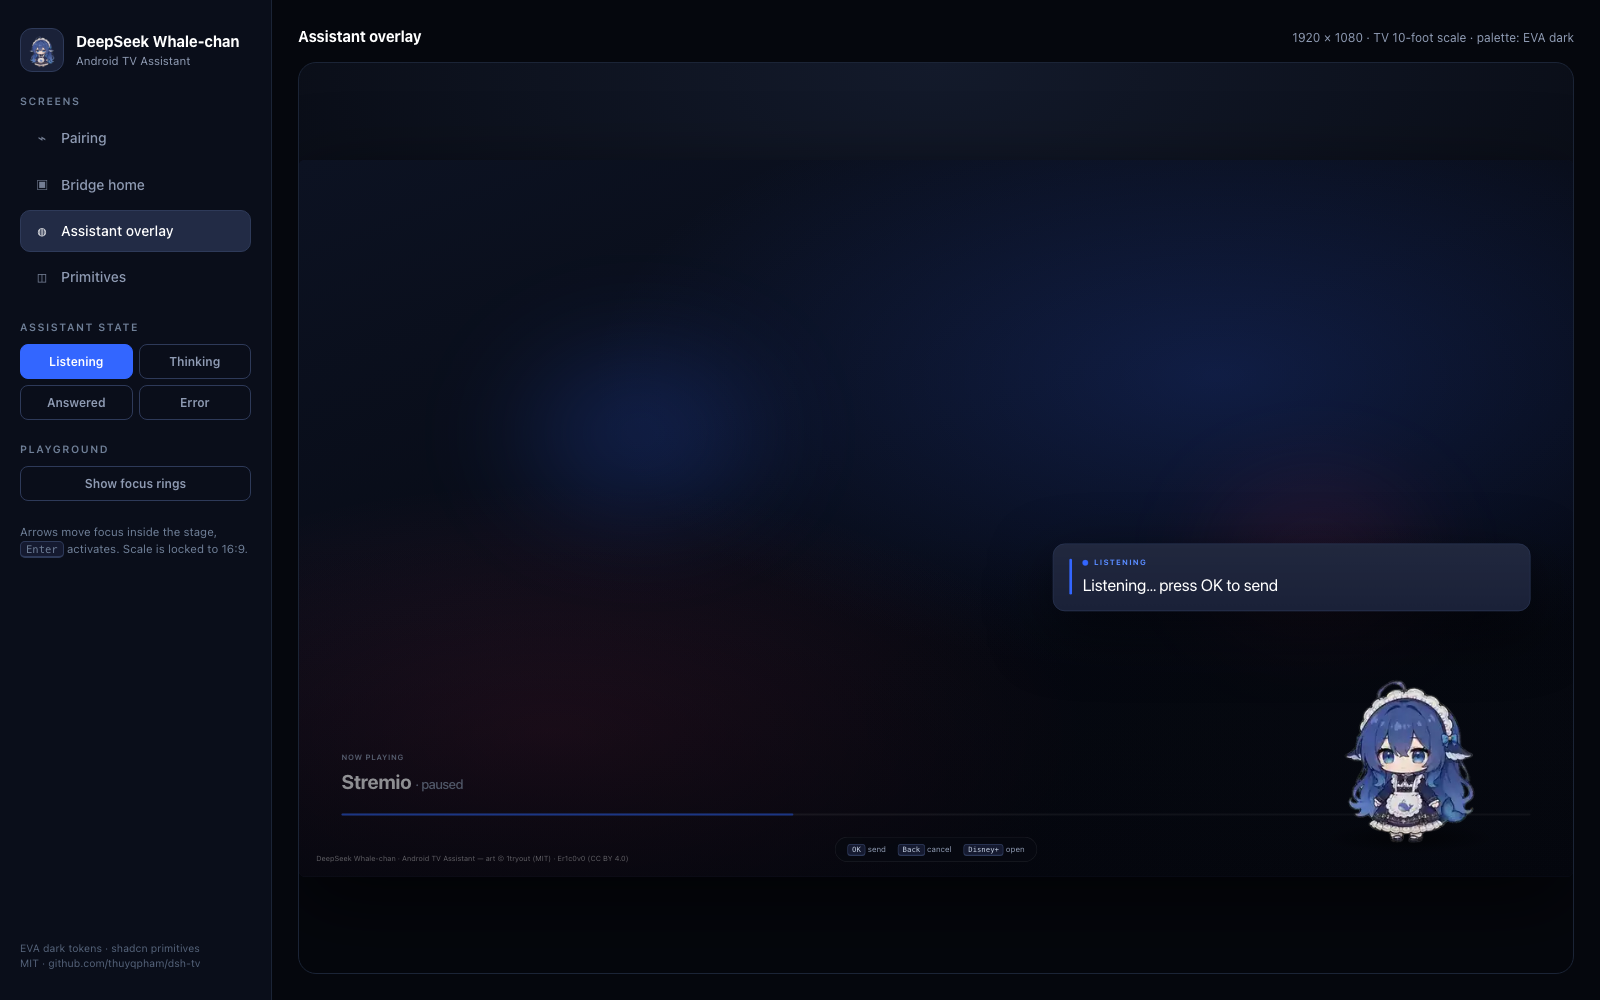
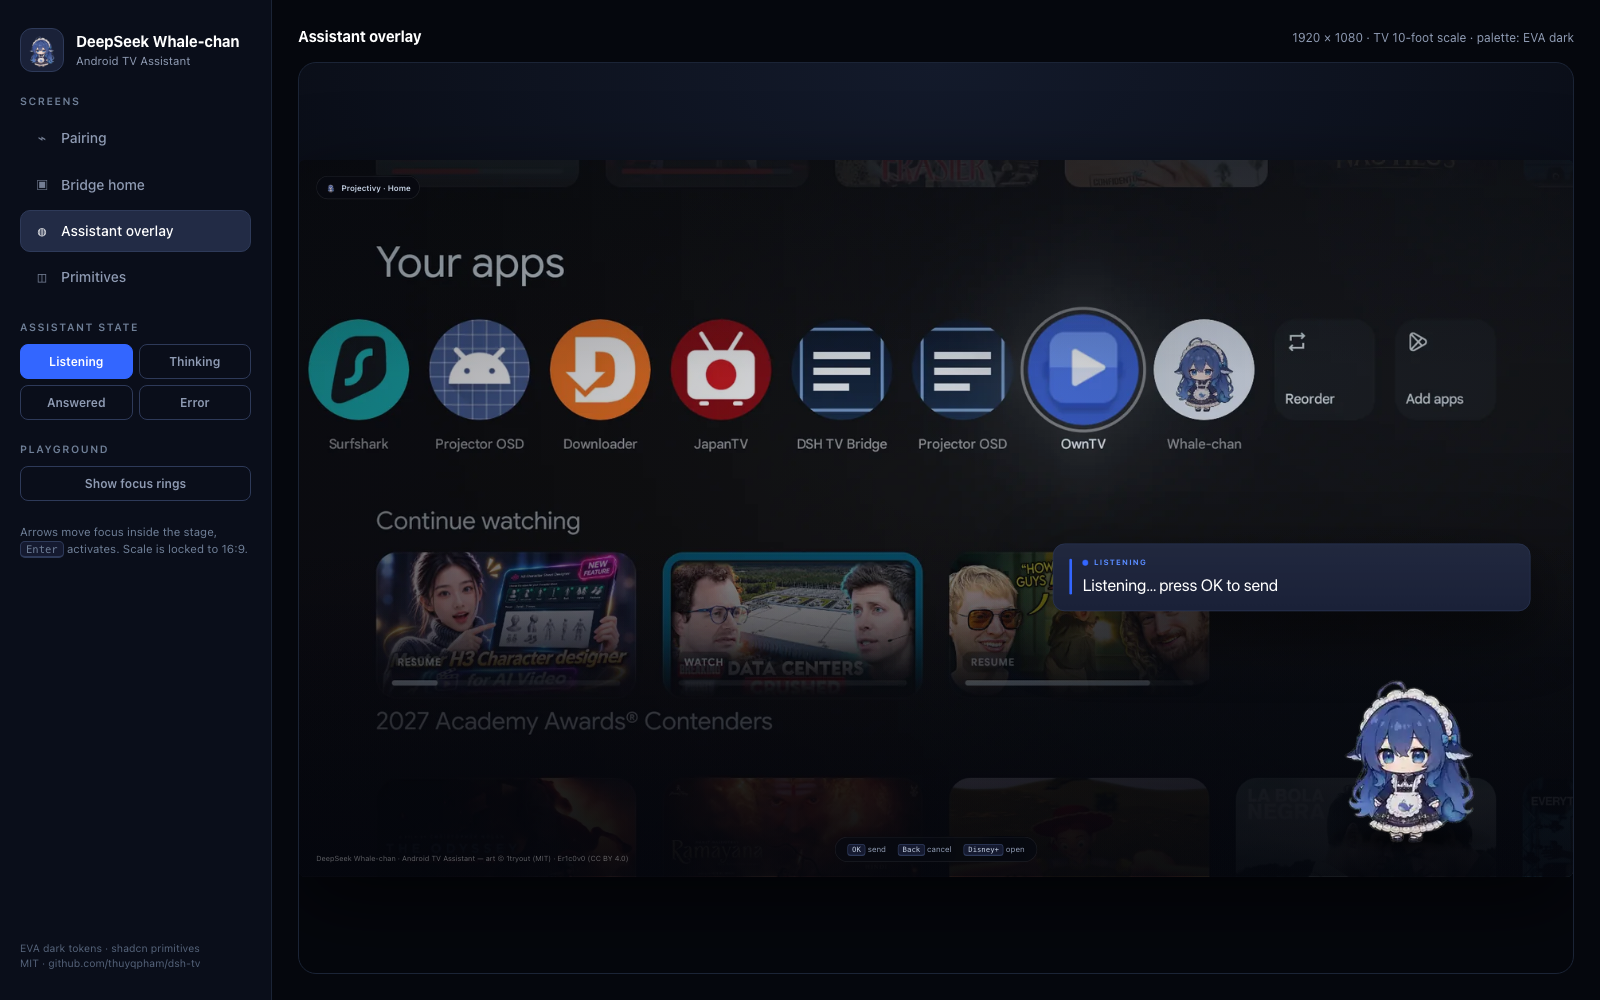
design: big onn. 4K Plus TV behind the laptop, real Projectivy launcher grab, whale assistant overlaid on the TV

diff --git a/docs/ui-mockup.html b/docs/ui-mockup.html
@@ -221,6 +221,12 @@
   .player .bar i { display: block; width: 38%; height: 100%; border-radius: 2px; background: var(--primary); }
   
   .assistant { position: absolute; inset: 0; }
+  .player .shot { position: absolute; inset: 0; width: 100%; height: 100%; object-fit: cover; opacity: .9; }
+  .player .scrim-strong { position: absolute; inset: 0; background: radial-gradient(90% 90% at 50% 45%, transparent 0%, rgba(4,6,13,.35) 70%, rgba(4,6,13,.8) 100%), linear-gradient(180deg, rgba(4,6,13,.25), transparent 30%, transparent 60%, rgba(4,6,13,.72)); }
+  .assistant .app-chip { position: absolute; left: 26px; top: 24px; display: inline-flex; align-items: center; gap: 8px;
+    padding: 8px 13px; border-radius: 999px; background: rgba(6,9,16,.6); border: 1px solid rgba(255,255,255,.10);
+    font-size: 12px; font-weight: 600; color: #C6D2E4; backdrop-filter: blur(8px); }
+  .assistant .app-chip img { width: 16px; height: 16px; border-radius: 4px; }
   .assistant .scrim { position: absolute; inset: 0; background:
       radial-gradient(58% 40% at 82% 78%, rgba(6,9,16,.55), transparent 70%),
       linear-gradient(180deg, transparent 52%, rgba(4,6,13,.62) 100%); pointer-events: none; }
@@ -309,86 +315,74 @@
     border-top-color: #C7D7FF; animation: spin 1s linear infinite; }
   @keyframes spin { to { transform: rotate(360deg); } }
 
-  /* laptop + TV scene */
-  .pair-visual { position: relative; height: 540px; align-self: center; }
-  .pair-visual .halo { position: absolute; inset: 6% 2% 8% 4%; background:
-      radial-gradient(60% 60% at 40% 42%, rgba(51,102,255,.20), transparent 70%),
-      radial-gradient(45% 45% at 76% 72%, rgba(0,224,150,.10), transparent 70%); filter: blur(10px); }
+  /* laptop in front + big TV behind */
+  .pair-visual { position: relative; height: 600px; align-self: center; }
+  .pair-visual .halo { position: absolute; inset: 2% 0 8% 4%; background:
+      radial-gradient(60% 60% at 62% 38%, rgba(51,102,255,.22), transparent 70%),
+      radial-gradient(45% 45% at 30% 76%, rgba(0,224,150,.10), transparent 70%); filter: blur(12px); }
   .scene { position: absolute; inset: 0; }
 
-  .laptop { position: absolute; left: -6px; top: 18px; width: 486px; }
-  .laptop .lid { border-radius: 16px 16px 4px 4px; padding: 9px; background: linear-gradient(180deg, #2A3350, #171D31);
-    border: 1px solid #3A4766; box-shadow: 0 30px 70px rgba(0,0,0,.55), inset 0 1px 0 rgba(255,255,255,.08); }
-  .laptop .lcd { position: relative; height: 282px; border-radius: 8px; overflow: hidden; background: #0B0F1F;
-    border: 1px solid #070A12; }
-  .laptop .base { height: 13px; width: 108%; margin-left: -4%; border-radius: 0 0 12px 12px;
-    background: linear-gradient(180deg, #4A556F, #2A3247 60%, #1B2132); box-shadow: 0 12px 24px rgba(0,0,0,.45); }
-  .laptop .notch { position: absolute; top: 9px; left: 50%; transform: translateX(-50%); width: 64px; height: 9px;
+  /* ---- TV (back) ---- */
+  .tv { position: absolute; right: -8px; top: 0; width: 792px; z-index: 1; }
+  .tv .panel { border-radius: 14px; padding: 11px 11px 0; background: linear-gradient(180deg, #121826, #070A12);
+    border: 1px solid #2A3450; box-shadow: 0 40px 100px rgba(0,0,0,.65), inset 0 1px 0 rgba(255,255,255,.06); }
+  .tv .lcd { position: relative; height: 424px; border-radius: 6px; overflow: hidden; background: #05070D; border: 1px solid #05070D; }
+  .tv .lcd .shot { position: absolute; inset: 0; width: 100%; height: 100%; object-fit: cover; opacity: .96; }
+  .tv .lcd .dim { position: absolute; inset: 0; background: linear-gradient(180deg, rgba(4,6,13,.10), transparent 30%, transparent 52%, rgba(4,6,13,.72)); }
+  .tv .chin { height: 36px; display: flex; align-items: center; justify-content: flex-end; gap: 9px; padding-right: 20px; }
+  .tv .chin .onn { font-size: 14px; font-weight: 800; letter-spacing: -.03em; color: #EAF0FA; }
+  .tv .chin .model { font-size: 9px; letter-spacing: .17em; text-transform: uppercase; color: #6F7F97; font-weight: 700; }
+  .tv .stand { width: 26%; height: 7px; margin: 0 auto; background: linear-gradient(180deg, #2A3350, #101625); border-radius: 0 0 8px 8px; }
+  .tv .foot-base { width: 48%; height: 3px; margin: 0 auto; background: #0A0E18; border-radius: 3px; }
+
+  /* whale-chan assistant overlaid on the real launcher */
+  .tv-assistant { position: absolute; right: 16px; bottom: 14px; left: 16px; height: 150px; pointer-events: none; }
+  .tv-assistant .tbubble { position: absolute; right: 118px; bottom: 78px; width: 342px; padding: 10px 13px 11px;
+    border-radius: 11px; background: rgba(12,17,29,.92); border: 1px solid rgba(89,139,255,.38);
+    box-shadow: 0 14px 34px rgba(0,0,0,.5); backdrop-filter: blur(6px); }
+  .tv-assistant .tbubble .eb { display: flex; align-items: center; gap: 6px; font-size: 6.5px; letter-spacing: .16em;
+    font-weight: 700; color: var(--primary-hover); text-transform: uppercase; }
+  .tv-assistant .tbubble .eb .dot { width: 5px; height: 5px; animation: pulse 1.6s ease-out infinite; }
+  .tv-assistant .tbubble .say { margin-top: 4px; font-size: 11px; line-height: 1.35; color: #EAF2FB; }
+  .tv-assistant .tpet { position: absolute; right: 6px; bottom: 0; width: 154px; filter: drop-shadow(0 14px 18px rgba(0,0,0,.6)); }
+  .tv-assistant .tshadow { position: absolute; right: 26px; bottom: 2px; width: 110px; height: 18px; border-radius: 50%;
+    background: radial-gradient(closest-side, rgba(0,0,0,.55), transparent); }
+  .tv .pill-brand { position: absolute; left: 16px; top: 14px; display: inline-flex; align-items: center; gap: 6px;
+    padding: 5px 9px; border-radius: 999px; background: rgba(6,9,16,.6); border: 1px solid rgba(255,255,255,.12);
+    color: #DCE7F7; font-size: 7px; font-weight: 700; letter-spacing: .05em; backdrop-filter: blur(6px); }
+  .tv .pill-brand img { width: 12px; height: 12px; border-radius: 3px; }
+
+  /* ---- laptop (front) ---- */
+  .laptop { position: absolute; left: -12px; bottom: -12px; width: 442px; z-index: 3; filter: drop-shadow(0 34px 50px rgba(0,0,0,.6)); }
+  .laptop .lid { border-radius: 15px 15px 4px 4px; padding: 8px; background: linear-gradient(180deg, #2A3350, #171D31);
+    border: 1px solid #3A4766; box-shadow: inset 0 1px 0 rgba(255,255,255,.08); }
+  .laptop .lcd { position: relative; height: 236px; border-radius: 7px; overflow: hidden; background: #0B0F1F; border: 1px solid #070A12; }
+  .laptop .base { height: 12px; width: 108%; margin-left: -4%; border-radius: 0 0 12px 12px;
+    background: linear-gradient(180deg, #4A556F, #2A3247 60%, #1B2132); }
+  .laptop .notch { position: absolute; top: 8px; left: 50%; transform: translateX(-50%); width: 56px; height: 8px;
     background: #070A12; border-radius: 0 0 6px 6px; z-index: 2; }
 
-  .dsh { position: absolute; inset: 0; display: flex; font-size: 8px; color: #A9B6C9; }
-  .dsh-rail { width: 34px; flex: 0 0 34px; background: #0E1322; border-right: 1px solid #1B2436; padding: 8px 6px; display: flex; flex-direction: column; gap: 6px; }
-  .dsh-rail i { display: block; width: 100%; height: 5px; border-radius: 2px; background: #232D45; }
-  .dsh-rail i.on { background: var(--primary); height: 14px; border-radius: 4px; }
-  .dsh-main { flex: 1; display: flex; flex-direction: column; padding: 10px 12px; gap: 8px; min-width: 0; }
+  .dsh { position: absolute; inset: 0; display: flex; font-size: 7.5px; color: #A9B6C9; }
+  .dsh-rail { width: 30px; flex: 0 0 30px; background: #0E1322; border-right: 1px solid #1B2436; padding: 7px 5px; display: flex; flex-direction: column; gap: 5px; }
+  .dsh-rail i { display: block; width: 100%; height: 4px; border-radius: 2px; background: #232D45; }
+  .dsh-rail i.on { background: var(--primary); height: 12px; border-radius: 4px; }
+  .dsh-main { flex: 1; display: flex; flex-direction: column; padding: 8px 10px; gap: 6px; min-width: 0; }
   .dsh-top { display: flex; align-items: center; justify-content: space-between; }
-  .dsh-top b { font-size: 8.5px; color: #E6EDF7; font-weight: 700; letter-spacing: .01em; }
-  .dsh-top span { font-size: 7px; color: #5C6A82; }
-  .dsh-card { background: #131B2C; border: 1px solid #22304A; border-radius: 6px; padding: 8px; display: flex; flex-direction: column; gap: 5px; }
-  .dsh-card .line { height: 4px; border-radius: 2px; background: #26334D; }
+  .dsh-top b { font-size: 7.5px; color: #E6EDF7; font-weight: 700; }
+  .dsh-top span { font-size: 6.5px; color: #5C6A82; }
+  .dsh-card { background: #131B2C; border: 1px solid #22304A; border-radius: 5px; padding: 7px; display: flex; flex-direction: column; gap: 4px; }
+  .dsh-card .line { height: 3.5px; border-radius: 2px; background: #26334D; }
   .dsh-card .line.short { width: 62%; }
-  .dsh-card .accent { height: 4px; width: 34%; border-radius: 2px; background: var(--primary); }
-  .dsh-pane { width: 158px; flex: 0 0 158px; background: #101728; border-left: 1px solid #1E2941; padding: 9px; display: flex; flex-direction: column; gap: 6px; }
-  .dsh-pane .ph { font-size: 7.5px; font-weight: 700; color: #E6EDF7; display: flex; align-items: center; gap: 5px; }
-  .dsh-pane .ph img { width: 12px; height: 12px; border-radius: 3px; }
-  .dsh-pane .row { display: flex; align-items: center; gap: 5px; font-size: 7px; color: #A9B6C9; }
+  .dsh-card .line.accent { height: 3.5px; width: 34%; border-radius: 2px; background: var(--primary); }
+  .dsh-pane { width: 148px; flex: 0 0 148px; background: #101728; border-left: 1px solid #1E2941; padding: 8px; display: flex; flex-direction: column; gap: 5px; }
+  .dsh-pane .ph { font-size: 7px; font-weight: 700; color: #E6EDF7; display: flex; align-items: center; gap: 4px; }
+  .dsh-pane .ph img { width: 11px; height: 11px; border-radius: 3px; }
+  .dsh-pane .row { display: flex; align-items: center; gap: 4px; font-size: 6.5px; color: #A9B6C9; }
   .dsh-pane .row .dot { width: 5px; height: 5px; }
-  .dsh-pane .qr { width: 56px; height: 56px; background: #fff; border-radius: 4px; padding: 4px; align-self: center; margin-top: 2px; }
+  .dsh-pane .qr { width: 50px; height: 50px; background: #fff; border-radius: 4px; padding: 3px; align-self: center; margin-top: 1px; }
   .dsh-pane .qr img { width: 100%; height: 100%; }
-  .dsh-pane .go { height: 16px; border-radius: 4px; background: var(--primary); color: #fff; font-size: 7px; font-weight: 700; display: flex; align-items: center; justify-content: center; }
+  .dsh-pane .go { height: 15px; border-radius: 4px; background: var(--primary); color: #fff; font-size: 6.5px; font-weight: 700; display: flex; align-items: center; justify-content: center; }
 
-  .tv { position: absolute; right: -6px; bottom: 6px; width: 432px; }
-  .tv .panel { border-radius: 10px; padding: 8px; background: linear-gradient(180deg, #141A2B, #0A0E19);
-    border: 1px solid #2C3854; box-shadow: 0 34px 80px rgba(0,0,0,.6), inset 0 1px 0 rgba(255,255,255,.06); }
-  .tv .lcd { position: relative; height: 238px; border-radius: 5px; overflow: hidden;
-    background: radial-gradient(90% 80% at 70% 20%, #23345E 0%, #101A31 55%, #080C16 100%); }
-  .tv .stand { width: 34%; height: 6px; margin: 0 auto; background: linear-gradient(180deg, #2A3350, #121828); border-radius: 0 0 8px 8px; }
-  .tv .foot { width: 58%; height: 3px; margin: 0 auto; background: #121828; border-radius: 3px; }
-  .launcher { position: absolute; inset: 0; padding: 12px 14px; display: flex; flex-direction: column; }
-  .l-time { font-size: 8px; color: #C6D2E4; font-weight: 700; display: flex; justify-content: space-between; }
-  .l-greet { margin-top: 7px; font-size: 7px; color: #8F9BB3; letter-spacing: .02em; }
-  .l-row { display: flex; gap: 8px; margin-top: 8px; }
-  .l-tile { width: 46px; height: 30px; border-radius: 6px; border: 1px solid rgba(255,255,255,.12); display: flex; align-items: center; justify-content: center;
-    font-size: 6.5px; font-weight: 800; letter-spacing: .02em; color: rgba(255,255,255,.9); }
-  .l-tile.stremio { background: linear-gradient(135deg, #2B3F6B, #17233D); }
-  .l-tile.youtube { background: linear-gradient(135deg, #5C1D28, #2A1218); }
-  .l-tile.netflix { background: linear-gradient(135deg, #4B1520, #1D0A0E); }
-  .l-tile.prime { background: linear-gradient(135deg, #163A57, #0C1E30); }
-
-  .l-continue { margin-top: 10px; font-size: 6.5px; color: #8F9BB3; letter-spacing: .06em; text-transform: uppercase; font-weight: 700; }
-  .l-cards { display: flex; gap: 6px; margin-top: 5px; }
-  .l-card { flex: 1; height: 52px; border-radius: 5px; border: 1px solid rgba(255,255,255,.07); }
-  .l-card.a { background: linear-gradient(135deg, #243B66, #101B30); }
-  .l-card.b { background: linear-gradient(135deg, #3A2440, #160F1D); }
-  .l-card.c { background: linear-gradient(135deg, #1E3B3A, #0C1A19); }
-  .l-card.d { background: linear-gradient(135deg, #3A3020, #17130B); }
-  .l-skirt { position: absolute; left: 14px; right: 14px; bottom: 12px; display: flex; align-items: center; gap: 9px;
-    padding: 8px 10px; border-radius: 8px; background: rgba(8,12,22,.78); border: 1px solid rgba(255,255,255,.10); backdrop-filter: blur(6px); }
-  .l-skirt img { width: 34px; height: 34px; }
-  .l-skirt .txt { display: flex; flex-direction: column; gap: 2px; min-width: 0; }
-  .l-skirt b { font-size: 7.5px; color: #EAF2FB; }
-  .l-skirt span { font-size: 6.5px; color: #8F9BB3; }
-  .l-skirt .wave { margin-left: auto; display: flex; align-items: flex-end; gap: 2px; height: 12px; }
-  .l-skirt .wave i { width: 2px; background: var(--primary); border-radius: 2px; animation: wave 1s ease-in-out infinite; }
-  .l-skirt .wave i:nth-child(2) { animation-delay: .15s; } .l-skirt .wave i:nth-child(3) { animation-delay: .3s; }
-  .l-skirt .wave i:nth-child(4) { animation-delay: .45s; }
-  @keyframes wave { 0%,100% { height: 3px; } 50% { height: 12px; } }
-
-  .whale-peek { position: absolute; right: 372px; bottom: -8px; width: 212px; filter: drop-shadow(0 22px 30px rgba(0,0,0,.55)); z-index: 3; }
-  .scene .link { position: absolute; inset: 0; pointer-events: none; }
-  .scene .link path { fill: none; stroke: rgba(89,139,255,.55); stroke-width: 2; stroke-dasharray: 5 7; animation: dash 14s linear infinite; }
-  .scene .link circle { fill: var(--primary); }
-  @keyframes dash { to { stroke-dashoffset: -240; } }
   .visual-caption { position: absolute; left: 6px; bottom: -30px; display: flex; align-items: center; gap: 8px; font-size: 12px; color: var(--muted-foreground); }
   .visual-caption b { color: var(--foreground); font-weight: 600; }
   .pair-foot { display: flex; align-items: center; justify-content: space-between; gap: 20px; padding-top: 16px;
@@ -631,13 +625,29 @@
               <div class="pair-visual">
                 <div class="halo"></div>
                 <div class="scene">
-                  <svg class="link" viewBox="0 0 820 620" preserveAspectRatio="none" aria-hidden="true">
-                    <path d="M470 268 C 560 268, 600 300, 640 340" />
-                    <circle cx="470" cy="268" r="4" />
-                    <circle cx="644" cy="342" r="4" />
-                  </svg>
+                  <!-- big TV: real launcher + Whale-chan assistant overlay -->
+                  <div class="tv">
+                    <div class="panel">
+                      <div class="lcd">
+                        <img class="shot" src="ui-assets/tv-launcher.webp" alt="onn. 4K Plus launcher with the Whale-chan assistant overlay">
+                        <div class="dim"></div>
+                        <div class="pill-brand"><img src="ui-assets/brand.png" alt=""> Projectivy · Home</div>
+                        <div class="tv-assistant">
+                          <span class="tshadow"></span>
+                          <img class="tpet" src="ui-assets/pet-idle.webp" alt="Whale-chan">
+                          <div class="tbubble">
+                            <div class="eb"><span class="dot"></span> LISTENING</div>
+                            <div class="say">Listening… press <b>OK</b> to send</div>
+                          </div>
+                        </div>
+                      </div>
+                      <div class="chin"><span class="onn">onn.</span><span class="model">4K Plus</span></div>
+                    </div>
+                    <div class="stand"></div>
+                    <div class="foot-base"></div>
+                  </div>
 
-                  <!-- Mac running DSH -->
+                  <!-- Mac in front running DSH -->
                   <div class="laptop">
                     <div class="notch"></div>
                     <div class="lid">
@@ -651,7 +661,6 @@
                               <div class="line"></div>
                               <div class="line short"></div>
                               <div class="line"></div>
-                              <div class="line short"></div>
                             </div>
                             <div class="dsh-card" style="flex:1">
                               <div class="line accent" style="width:22%"></div>
@@ -662,7 +671,7 @@
                           <div class="dsh-pane">
                             <div class="ph"><img src="ui-assets/brand.png" alt=""> Whale-chan TV</div>
                             <div class="row"><span class="dot success" style="width:5px;height:5px"></span> Living Room TV</div>
-                            <div class="row" style="color:#5C6A82">onn. 4K Pro · 192.168.4.58</div>
+                            <div class="row" style="color:#5C6A82">onn. 4K Plus · 192.168.4.58</div>
                             <div class="qr"><img src="ui-assets/qr.png" alt=""></div>
                             <div class="go">Approve TV</div>
                           </div>
@@ -671,39 +680,8 @@
                     </div>
                     <div class="base"></div>
                   </div>
-
-                  <!-- TV running Projectivy + Whale-chan -->
-                  <div class="tv">
-                    <div class="panel">
-                      <div class="lcd">
-                        <div class="launcher">
-                          <div class="l-time"><span>9:41 PM</span><span>⌁ Wi-Fi</span></div>
-                          <div class="l-greet">Good evening, Thuy</div>
-                          <div class="l-row">
-                            <div class="l-tile stremio">Stremio</div>
-                            <div class="l-tile youtube">YouTube</div>
-                            <div class="l-tile netflix">Netflix</div>
-                            <div class="l-tile prime">Prime</div>
-                          </div>
-                          <div class="l-continue">Continue watching</div>
-                          <div class="l-cards">
-                            <div class="l-card a"></div><div class="l-card b"></div><div class="l-card c"></div><div class="l-card d"></div>
-                          </div>
-                          <div class="l-skirt">
-                            <img src="ui-assets/brand.png" alt="">
-                            <div class="txt"><b>Whale-chan</b><span>Listening… press OK to send</span></div>
-                            <div class="wave"><i></i><i></i><i></i><i></i></div>
-                          </div>
-                        </div>
-                      </div>
-                    </div>
-                    <div class="stand"></div>
-                    <div class="foot"></div>
-                  </div>
-
-                  <img class="whale-peek" src="ui-assets/pet-idle.webp" alt="Whale-chan waving">
                 </div>
-                <div class="visual-caption"><b>DSH on your Mac</b> <span>→</span> <b>Whale-chan on your TV</b></div>
+                <div class="visual-caption"><b>DSH on your Mac</b> <span>→</span> <b>Whale-chan on your onn. 4K Plus</b></div>
               </div>
             </div>
 
@@ -717,17 +695,13 @@
         <!-- ================= ASSISTANT ================= -->
         <section class="screen" data-screen="assistant">
           <div class="player">
-            <div class="glow one"></div>
-            <div class="glow two"></div>
-            <div class="media-meta">
-              <div class="label">Now playing</div>
-              <div class="media-title">Stremio <span>· paused</span></div>
-            </div>
-            <div class="bar" style="left:64px;right:64px;bottom:92px"><i></i></div>
+            <img class="shot" src="ui-assets/tv-launcher.webp" alt="Projectivy launcher with Whale-chan">
+            <div class="scrim-strong"></div>
           </div>
 
           <div class="assistant">
             <div class="scrim"></div>
+            <div class="app-chip"><img src="ui-assets/brand.png" alt=""> Projectivy · Home</div>
             <div class="bubble" id="bubble">
               <div class="rule" id="bubble-rule"></div>
               <div class="content">

diff --git a/DESIGN.md b/DESIGN.md
@@ -150,6 +150,9 @@ parts rather than inventing new ones.
 
 ![Pairing](docs/screenshots/ui-playground-pairing.png)
 
+The TV grab is a real capture from the onn. 4K Plus (`docs/ui-assets/tv-launcher.webp`),
+so the scene stays honest about the launcher, the app row and the Whale-chan tile.
+
 **Anatomy**
 
 - **Brandbar** — 54px brand tile + wordmark (`DeepSeek` regular, `Whale-chan`
@@ -164,9 +167,11 @@ parts rather than inventing new ones.
   escape hatch (`Use a different Mac`) is outline. One primary per screen.
 - **Progress** — a three-step tracker under the actions: Scan → Approve in DSH →
   Connected. The current step uses primary; done uses success.
-- **Device scene** — laptop running DSH (rail, conversation, Whale-chan TV pane
-  with QR + Approve) and a TV running Projectivy with the Whale-chan assistant
-  skirt. A dashed line connects them; Whale-chan herself peeks between them.
+- **Device scene** — a big **onn. 4K Plus** TV (792px, `onn.` wordmark on the
+  chin) sits *behind* a 442px Mac laptop. The TV screen uses a real grab of the
+  Projectivy launcher, with Whale-chan and a listening bubble overlaid inside
+  the TV. The laptop in front runs DSH, with the Whale-chan TV pane open on
+  “Living Room TV · onn. 4K Plus · 192.168.4.58” and an Approve button.
 - **Footer** — Wi-Fi icon + “Both devices on the same Wi-Fi” + “LAN only”.
 
 **Derived into the other screens**
@@ -174,7 +179,7 @@ parts rather than inventing new ones.
 | Screen | Borrowed |
 | --- | --- |
 | Bridge home | brandbar, LAN/state pills, “Paired with” laptop ⇢ TV mini row, connected badge |
-| Assistant overlay | brand mark in the bubble header, same eyebrow/label language, whale as the state carrier |
+| Assistant overlay | same overlay language, but rendered over the same real launcher grab with a `Projectivy · Home` chip; brand mark in the bubble header, whale as the state carrier |
 | Primitives | brand lockup + status chips + code/type styles as the shared kit |
 
 **Rules**
